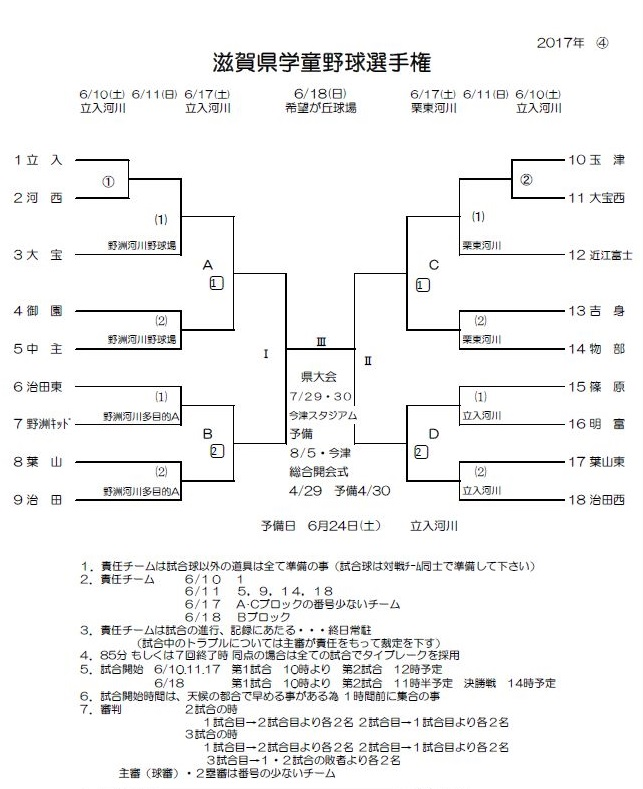
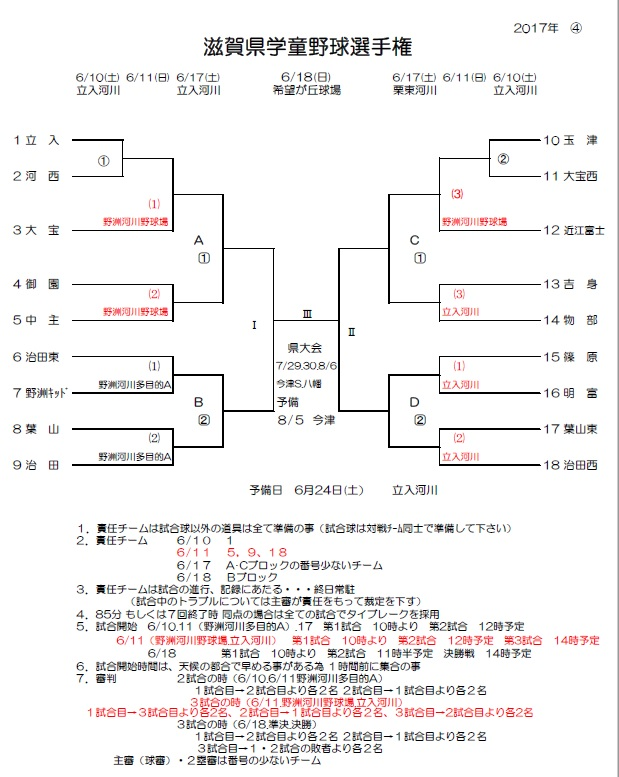
県学童湖南予選を更新

diff --git a/index.md b/index.md
@@ -10,7 +10,7 @@
 |大会名|日付|試合開始|場所|対戦チーム|備考|
 |:---|:---|:---|:---|:---|:---|
 |総合開会式|４月２９日（土）|－|今津スタジアム|－|－|
-|１回戦|６月１１日（日）|１２：００～|栗東河川|吉身|責任チーム|
+|１回戦|６月１１日（日）|１４：００～|立入河川|吉身|－|
 |２回戦|６月１７日（土）|１０：００～|栗東河川|玉津、大宝西、近江富士の勝者|－|
 |準決勝|６月１８日（日）|１１：３０～|希望が丘球場|Ｄブロックの勝者<br>（篠原、明富、葉山東、治田西）|－|
 |決勝|６月１８日（日）|１４：００～|希望が丘球場|Ａ，Ｂブロックの勝者<br>（立入、河西、大宝、御園、中主）<br>（治田東、野洲キッド、葉山、治田）|－|
